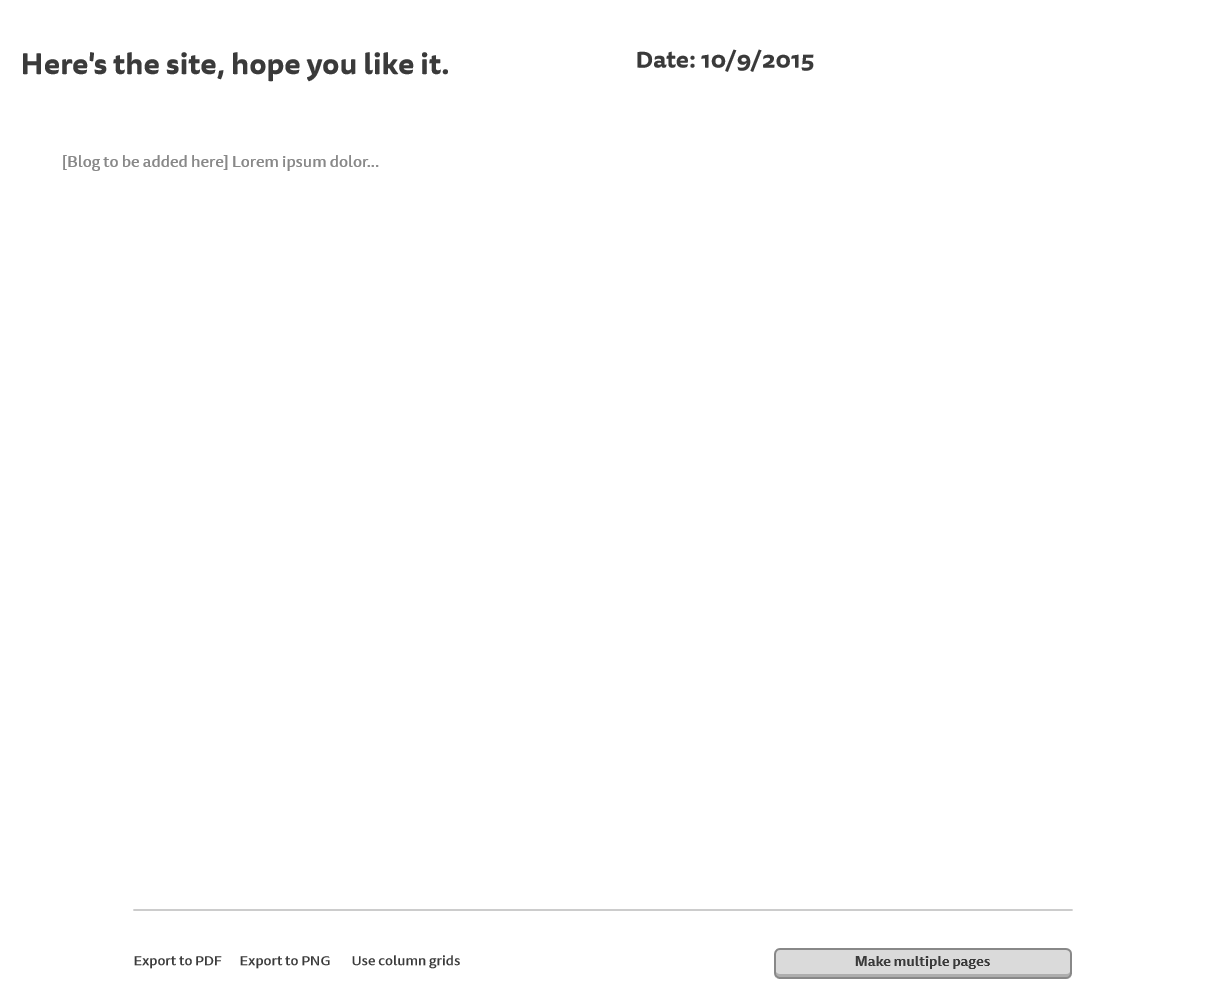
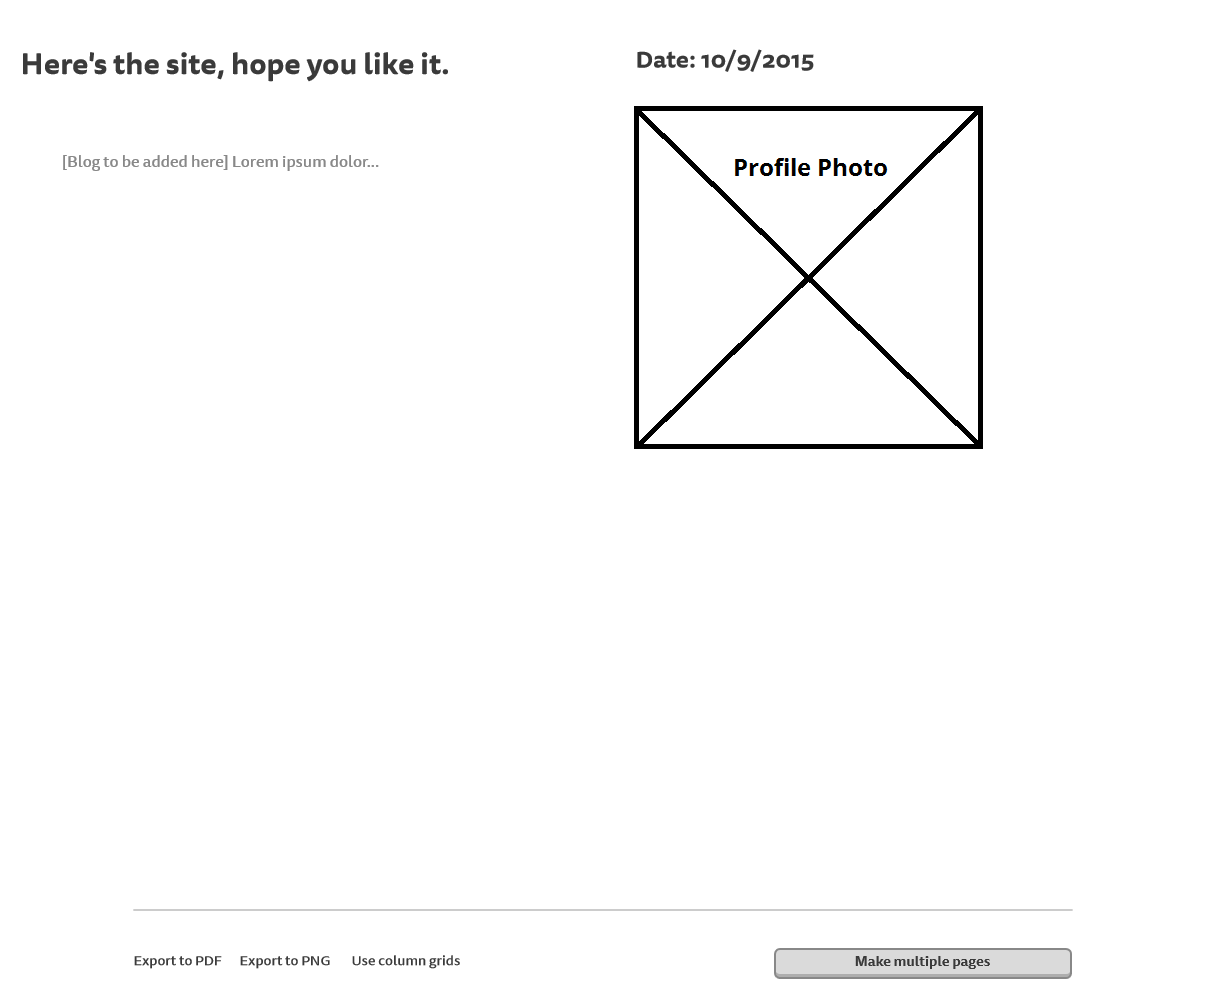
Add photo region to wireframe and comments to html

diff --git a/blog-template.html b/blog-template.html
@@ -1,0 +1,18 @@
+<!DOCTYPE html>
+<html>
+	<head>
+		<title>
+			Pete's Blog
+		</title>
+	</head>
+	<body>
+		<h1>Here's the site, hope you like it.</h1>
+		<h2>Date: 10/9/2015</h2>
+		<p style = "color:#a9a9a9">[Blog to be added here]</p>
+    <!--How was it to wireframe and create an HTML page with a pair?
+    Did you find wireframing to be helpful to your development process?
+    What did you and your pair decide made a good wireframe? 
+    What new semantic elements did you learn about (if any) ?-->
+
+	</body>
+</html>
